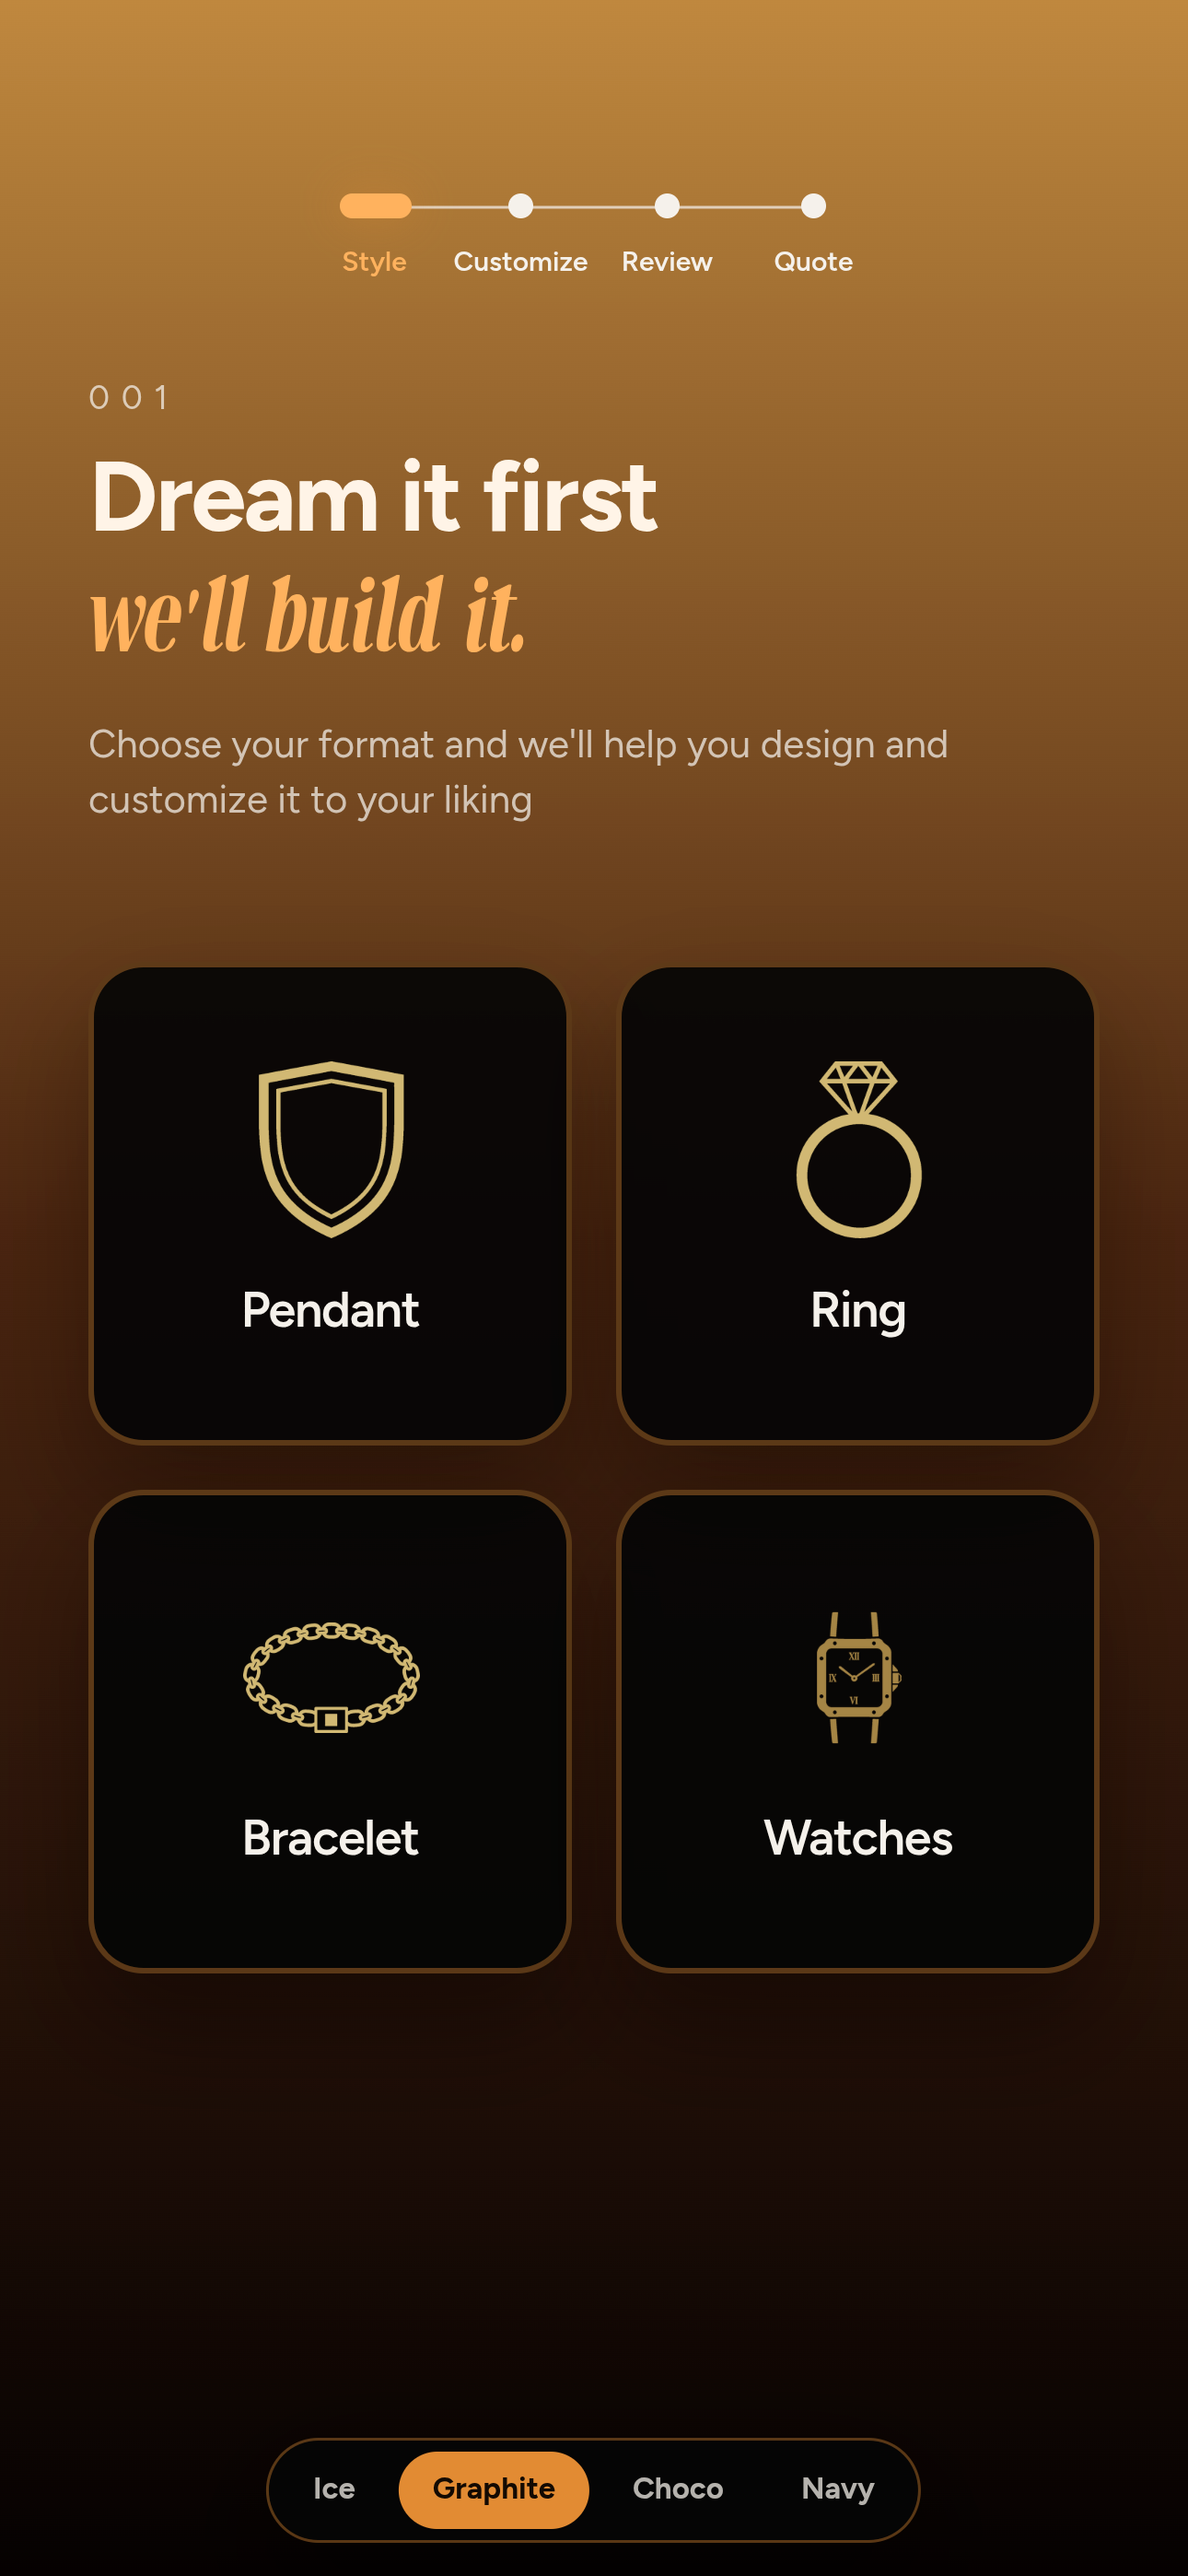
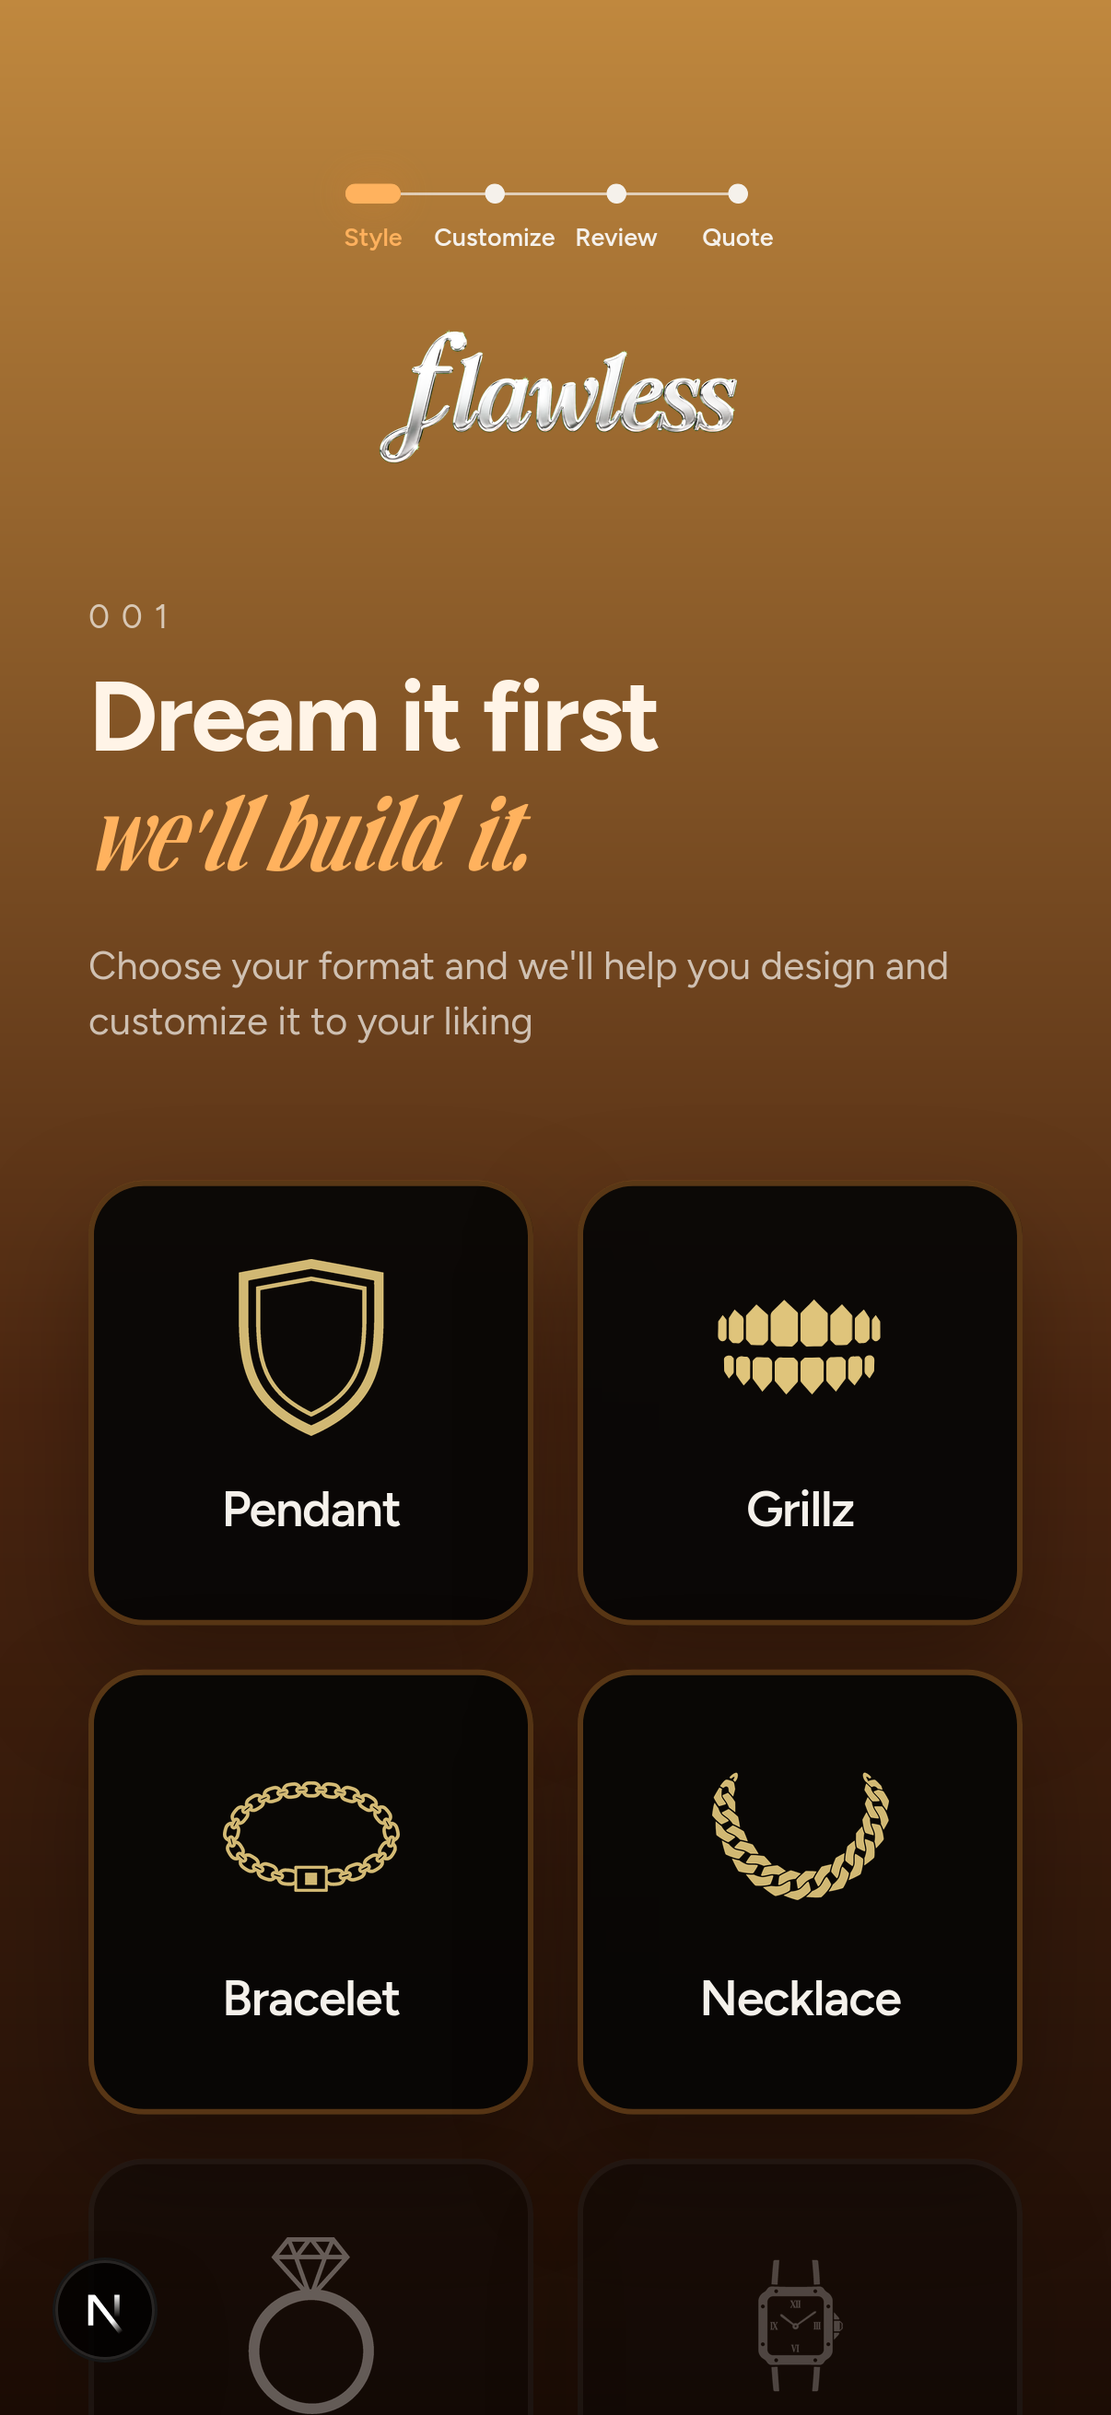
Update landing mockup screenshots

diff --git a/app/new-landing-page/NewLandingPage.tsx b/app/new-landing-page/NewLandingPage.tsx
@@ -14,7 +14,7 @@ export default function NewLandingPage({ className }: { className?: string }) {
   // Time-based phone screen switcher — advances every 1.6 s
   useEffect(() => {
     const timer = setInterval(() => {
-      setStep((s) => (s + 1) % 3);
+      setStep((s) => (s + 1) % 5);
     }, 1600);
     return () => clearInterval(timer);
   }, []);
@@ -351,7 +351,13 @@ export default function NewLandingPage({ className }: { className?: string }) {
                         borderRadius: 99,
                         background: "#000",
                       }} />
-                      {["/landing/screen-0.png", "/landing/screen-1.png", "/landing/screen-2.png"].map((src, i) => (
+                      {[
+                        { src: "/landing/screen-0.png", objectPosition: "top center" },
+                        { src: "/landing/screen-1.png", objectPosition: "top center" },
+                        { src: "/landing/screen-2.png", objectPosition: "top center" },
+                        { src: "/landing/screen-3.png", objectPosition: "center center" },
+                        { src: "/landing/screen-4.png", objectPosition: "top center" },
+                      ].map(({ src, objectPosition }, i) => (
                         <Image
                           key={i}
                           src={src}
@@ -360,7 +366,7 @@ export default function NewLandingPage({ className }: { className?: string }) {
                           sizes="280px"
                           style={{
                             objectFit: "cover",
-                            objectPosition: "top center",
+                            objectPosition,
                             opacity: step === i ? 1 : 0,
                             transition: "opacity .45s ease",
                           }}
@@ -442,7 +448,7 @@ export default function NewLandingPage({ className }: { className?: string }) {
                     alignItems: "center",
                     background: "linear-gradient(90deg, transparent calc(50% - 0.5px), rgba(237,228,212,0.18) 50%, transparent calc(50% + 0.5px))",
                   }}>
-                    {[0, 1, 2].map((i) => (
+                    {[0, 1, 2, 3, 4].map((i) => (
                       <span key={i} style={{
                         width: 14,
                         height: 14,
